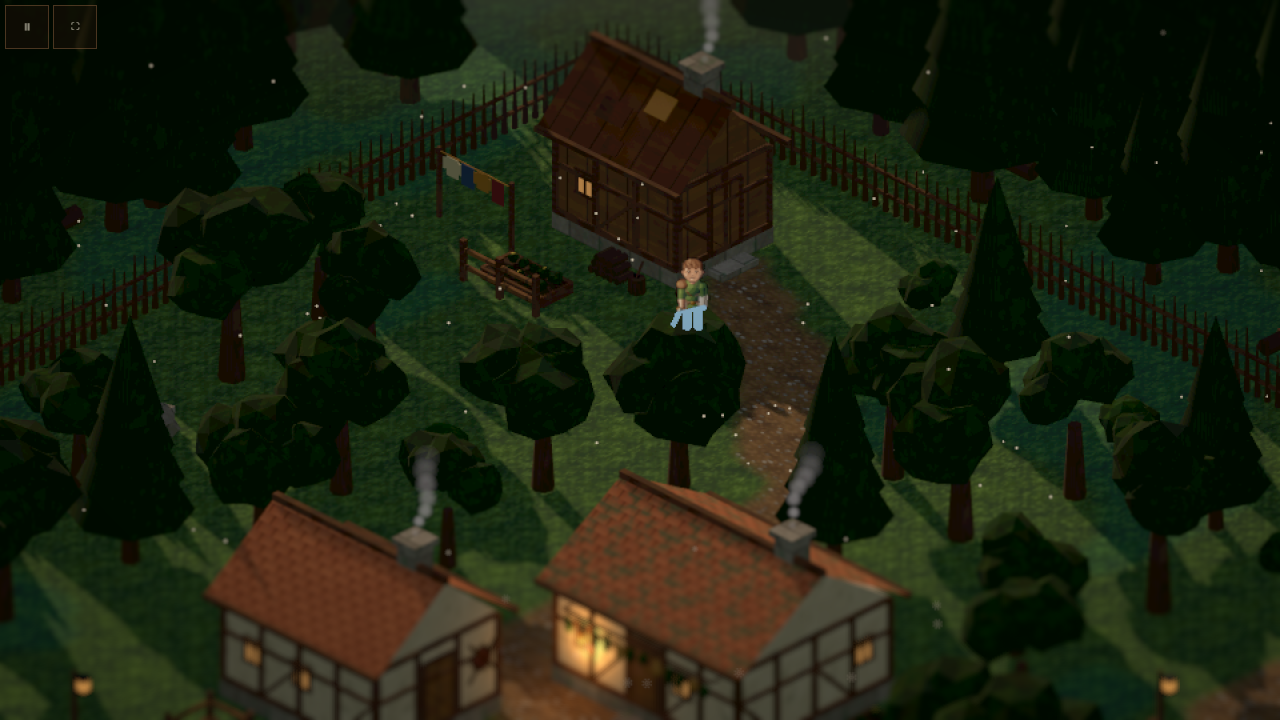
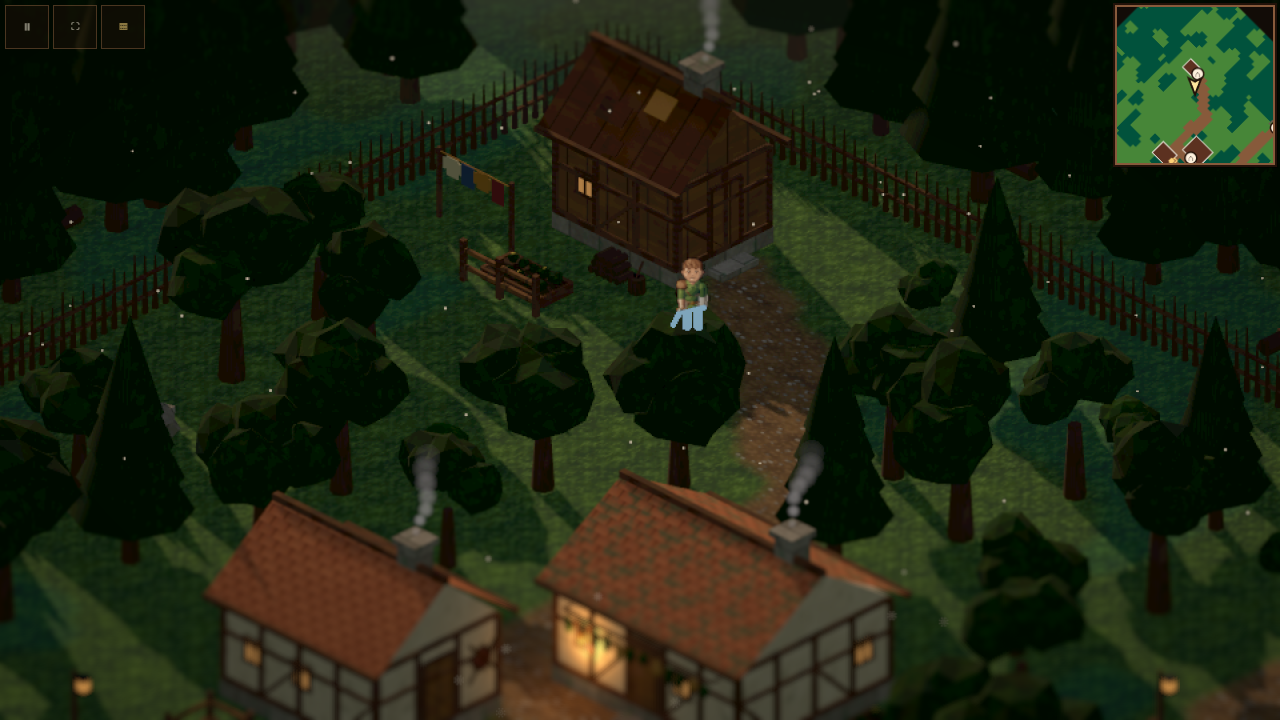
v0.1.2 etapa 2: minimapa girado, boneco de treino como objeto do kit, correção de travadas por luzes, medição de FPS e README

Changed region(s): [[0.8438, 0.0, 1.0, 0.2444]]

diff --git a/src/ui/telas.js b/src/ui/telas.js
@@ -1,7 +1,11 @@
 // Telas fora da batalha (15, pacote v0.1.1): menu de pausa (botão ⏸, Esc/P, Start do gamepad), botão de tela cheia e dica de controles
-// da 1ª vez. DOM dentro de #ui (retângulo do jogo, escala com --k); texto só por ID e por textContent. A tela de início é do 08
+// da 1ª vez; v0.1.2: janela de achado, nome do mapa ao entrar e minimapa (tecla M, botão ▦ no canto, linhas no painel de pausa). DOM dentro de #ui (retângulo do jogo, escala com --k); texto só por ID e por textContent. A tela de início é do 08
 // (plataforma.inicio, #inicio); aqui só se espera ela acabar. API da plataforma (08, principal.js): preferencias.obter/definir/todas,
 // telaCheia.suportada/ativa/alternar/aoMudar, pausa.pausar('ui')/retomar('ui'), movel.ativo. Sem ela (testes), há substitutos locais.
+
+import { criarMinimapa } from './minimapa.js';
+import { fonteDoMapa } from './minimapa_geo.js';
+import { interativosDe } from '../jogo/exploracao/portais.js';
 
 function el(tag, classe, pai, texto) {
   const e = document.createElement(tag);
@@ -13,8 +17,19 @@ function el(tag, classe, pai, texto) {
 const botao = (classe, pai, texto) => { const b = el('button', classe, pai, texto); b.type = 'button'; b.tabIndex = -1; return b; };
 
 function preferenciasNaMemoria() {
-  let p = { volume: 0.8, velocidade_batalha: 1, reduzir_movimento: false, tela_cheia_pedida: false, dica_vista: false };
+  let p = { volume: 0.8, velocidade_batalha: 1, reduzir_movimento: false, tela_cheia_pedida: false, dica_vista: false, minimapa: true, minimapa_contraste: false };
   return { obter: (k) => p[k], definir(k, v) { p = { ...p, [k]: v }; return true; }, todas: () => ({ ...p }) };
+}
+// preferências do minimapa: na plataforma (08) quando ela as conhece; senão guardadas aqui (localStorage próprio, com validação)
+const PADRAO_MINI = { minimapa: true, minimapa_contraste: false }, CHAVE_MINI = 'dunwick.ui_minimapa';
+function preferenciasMinimapa(P) {
+  const conhece = (k) => { try { return typeof P.obter(k) === 'boolean'; } catch { return false; } };
+  let local = { ...PADRAO_MINI };
+  try { const l = JSON.parse(globalThis.localStorage?.getItem(CHAVE_MINI) ?? 'null'); for (const k of Object.keys(PADRAO_MINI)) if (typeof l?.[k] === 'boolean') local[k] = l[k]; } catch { /* padrão */ }
+  return {
+    obter: (k) => (conhece(k) ? P.obter(k) : local[k]),
+    definir(k, v) { if (conhece(k)) return P.definir(k, v); local = { ...local, [k]: !!v }; try { globalThis.localStorage?.setItem(CHAVE_MINI, JSON.stringify(local)); } catch { /* só nesta sessão */ } return true; },
+  };
 }
 const SEM_TELA_CHEIA = { suportada: false, ativa: () => false, alternar: async () => false };
 
@@ -33,6 +48,7 @@ export function criarTelas({ mundo, t, cfg, dados = {}, plataforma = {}, podeCan
   const canto = el('div', 'tela-canto', raiz); canto.hidden = true;
   const bPausa = botao('tela-botao-canto', canto, '⏸'); bPausa.setAttribute('aria-label', t('ui_pausa_abrir'));
   const bCheia = botao('tela-botao-canto tela-cheia-canto', canto, '⛶'); bCheia.setAttribute('aria-label', t('ui_pausa_tela_cheia'));
+  const bMiniCanto = botao('tela-botao-canto tela-mini-canto', canto, '▦'); bMiniCanto.setAttribute('aria-label', t('ui_pausa_minimapa'));
   // ---------- pausa ----------
   const fundo = el('div', 'tela-pausa', raiz); fundo.hidden = true;
   const painel = el('div', 'tela-painel', fundo); painel.setAttribute('role', 'dialog'); painel.setAttribute('aria-label', t('ui_pausa_titulo'));
@@ -44,7 +60,9 @@ export function criarTelas({ mundo, t, cfg, dados = {}, plataforma = {}, podeCan
   const lReduzir = linha('ui_pausa_reduzir'), bReduzir = botao('tela-controle tela-alterna', lReduzir);
   const lVel = linha('ui_pausa_velocidade'), bVel = botao('tela-controle tela-alterna', lVel);
   const lCheia = linha('ui_pausa_tela_cheia'), bCheiaPainel = botao('tela-controle tela-alterna', lCheia);
-  const linhas = [lContinuar, lVolume, lReduzir, lVel, lCheia];
+  const lMini = linha('ui_pausa_minimapa'), bMini = botao('tela-controle tela-alterna', lMini);
+  const lMiniC = linha('ui_pausa_minimapa_contraste'), bMiniC = botao('tela-controle tela-alterna', lMiniC);
+  const linhas = [lContinuar, lVolume, lReduzir, lVel, lCheia, lMini, lMiniC];
   // ---------- janela de achado (baú de tesouro; eventos do 13: bau_aberto {mapa, id, item, quantidade} e bau_vazio {mapa, id}) ----------
   // O item já está na mochila: a janela só informa. Fila se vierem vários; enquanto aberta, plataforma.pausa('achado') para o mundo.
   const fundoAchado = el('div', 'tela-pausa tela-achado', raiz); fundoAchado.hidden = true;
@@ -76,6 +94,20 @@ export function criarTelas({ mundo, t, cfg, dados = {}, plataforma = {}, podeCan
   let banner = pedirBanner(mundo.mapaId ?? null); // pendente desde o começo: aparece quando o jogo começa de fato
   mundo.eventos?.em('mapa_trocado', (ev) => { banner = pedirBanner(ev.mapa); });
 
+  // ---------- minimapa (D-041) ----------
+  const PM = preferenciasMinimapa(P), giro = dados.config?.jogo?.camera?.giro_graus ?? 45, fontes = new Map();
+  // fonte: a dos dados do mapa (fonteDoMapa, com muros e baús); com plataforma.mapaAtivo() (08), o objeto dele + os muros que ele não traz.
+  // Uma por mapa (mesma referência enquanto o mapa não muda: o minimapa redesenha a base só quando ela muda).
+  const fonteMini = () => {
+    if (!mundo.mapa?.dados) return null;
+    const ma = plataforma.mapaAtivo?.() ?? null, chave = ma ?? mundo.mapaId;
+    if (!fontes.has(chave)) { const propria = fonteDoMapa(mundo.mapa.dados, giro, interativosDe); fontes.clear(); fontes.set(chave, ma ? Object.freeze({ ...ma, muros: ma.muros ?? propria.muros, pois: propria.pois.length >= (ma.pois?.length ?? 0) ? propria.pois : ma.pois }) : propria); }
+    return fontes.get(chave);
+  };
+  const minimapa = cfg.minimapa ? criarMinimapa({ mundo, t, cfg, fonte: fonteMini, preferencia: PM.obter, visivel: () => iniciou() && !pausado && !achado && (mundo.jogo?.modo ?? 'mapa') === 'mapa' }) : null;
+  const alternarMini = () => { PM.definir('minimapa', !PM.obter('minimapa')); desenhar(); };
+  const alternarMiniC = () => { PM.definir('minimapa_contraste', !PM.obter('minimapa_contraste')); desenhar(); };
+
   const prefs = () => P.todas();
   function gravar(parcial) { for (const [k, v] of Object.entries(parcial)) P.definir(k, v); desenhar(); aoMudar(prefs()); }
   function desenhar() {
@@ -85,6 +117,9 @@ export function criarTelas({ mundo, t, cfg, dados = {}, plataforma = {}, podeCan
     bReduzir.textContent = t(p.reduzir_movimento ? 'ui_ligado' : 'ui_desligado'); bReduzir.setAttribute('aria-pressed', String(p.reduzir_movimento));
     bVel.textContent = t('ui_pausa_vel_valor', { vel: p.velocidade_batalha });
     bCheiaPainel.textContent = t(tela.ativa() ? 'ui_ligado' : 'ui_desligado'); lCheia.hidden = !cheia;
+    const mini = PM.obter('minimapa'), miniC = PM.obter('minimapa_contraste');
+    bMini.textContent = t(mini ? 'ui_ligado' : 'ui_desligado'); bMini.setAttribute('aria-pressed', String(mini)); bMiniCanto.setAttribute('aria-pressed', String(mini)); bMiniCanto.classList.toggle('ligado', mini);
+    bMiniC.textContent = t(miniC ? 'ui_ligado' : 'ui_desligado'); bMiniC.setAttribute('aria-pressed', String(miniC)); lMini.hidden = lMiniC.hidden = !minimapa; bMiniCanto.hidden = !minimapa;
     fundo.hidden = !pausado;
     linhas.forEach((l, i) => l.classList.toggle('foco', pausado && i === foco));
     for (const e of [raiz, document.getElementById('batalha'), ...document.querySelectorAll('.bat-camada')]) e?.classList.toggle('reduzir', p.reduzir_movimento);
@@ -98,13 +133,14 @@ export function criarTelas({ mundo, t, cfg, dados = {}, plataforma = {}, podeCan
   const alternarVel = () => gravar({ velocidade_batalha: prefs().velocidade_batalha === 1 ? 2 : 1 });
   // dentro do gesto (clique/toque/tecla); guarda o pedido para o 08 repetir na próxima abertura do jogo
   const alternarCheia = () => Promise.resolve(tela.alternar()).then((ativa) => gravar({ tela_cheia_pedida: !!ativa })).finally(desenhar);
-  const ativar = [fecharPausa, () => volume(0.1), alternarReduzir, alternarVel, alternarCheia];
-  const ajustar = [null, (d) => volume(d * 0.1), alternarReduzir, alternarVel, alternarCheia];
+  const ativar = [fecharPausa, () => volume(0.1), alternarReduzir, alternarVel, alternarCheia, alternarMini, alternarMiniC];
+  const ajustar = [null, (d) => volume(d * 0.1), alternarReduzir, alternarVel, alternarCheia, alternarMini, alternarMiniC];
   function mover(d) { const vis = linhas.map((l, i) => (l.hidden ? -1 : i)).filter((i) => i >= 0); foco = vis[(vis.indexOf(foco) + d + vis.length) % vis.length]; desenhar(); }
 
   bPausa.addEventListener('click', abrirPausa); bCheia.addEventListener('click', alternarCheia);
   bContinuar.addEventListener('click', fecharPausa); bMenos.addEventListener('click', () => volume(-0.1)); bMais.addEventListener('click', () => volume(0.1));
   bReduzir.addEventListener('click', alternarReduzir); bVel.addEventListener('click', alternarVel); bCheiaPainel.addEventListener('click', alternarCheia);
+  bMini.addEventListener('click', alternarMini); bMiniC.addEventListener('click', alternarMiniC); bMiniCanto.addEventListener('click', alternarMini);
   linhas.forEach((l, i) => l.addEventListener('pointerenter', () => { if (pausado && foco !== i) { foco = i; desenhar(); } }));
   fundo.addEventListener('pointerdown', (e) => { if (e.target === fundo) fecharPausa(); }); // tocar fora do painel fecha
   fundo.addEventListener('contextmenu', (e) => { e.preventDefault(); fecharPausa(); });
@@ -116,6 +152,7 @@ export function criarTelas({ mundo, t, cfg, dados = {}, plataforma = {}, podeCan
     if (achado) { e.preventDefault(); e.stopImmediatePropagation(); if (!e.repeat && ['Enter', 'NumpadEnter', 'Space', 'Escape', 'KeyE', 'Backspace'].includes(e.code)) fecharAchado(); return; }
     const pausa = e.code === 'Escape' || e.code === 'KeyP';
     if (!pausado) {
+      if (e.code === 'KeyM' && !e.repeat && minimapa && mundo.jogo?.modo !== 'batalha') { e.preventDefault(); alternarMini(); return; }
       if (!pausa || (e.code === 'Escape' && mundo.jogo?.modo === 'batalha' && podeCancelarBatalha())) return;
       e.preventDefault(); e.stopImmediatePropagation(); abrirPausa(); return;
     }
@@ -169,8 +206,9 @@ export function criarTelas({ mundo, t, cfg, dados = {}, plataforma = {}, podeCan
 
   desenhar();
   return {
+    minimapa,
     get pausado() { return pausado || !!achado; }, get achadoAberto() { return !!achado; }, preferencias: prefs,
-    atualizar(dt) { if (canto.hidden === iniciou()) desenhar(); lerGamepad(); cuidarDica(dt); cuidarBanner(dt); },
+    atualizar(dt) { if (canto.hidden === iniciou()) desenhar(); lerGamepad(); cuidarDica(dt); cuidarBanner(dt); minimapa?.atualizar(); },
     abrirPausa, fecharPausa, gravar,
   };
 }

diff --git a/src/ui/minimapa.js b/src/ui/minimapa.js
@@ -1,5 +1,5 @@
-// Minimapa (15, D-041): gira com a tela (cima do minimapa = cima da tela, giro da câmera isométrica). Lê plataforma.mapaAtivo()
-// (objeto estável por mapa) e mundo.heroi (x, z, face). A BASE (chão, edifícios, portas, passagens) é desenhada UMA vez por mapa
+// Minimapa (15, D-041, etapa 2 da v0.1.2): gira com a tela (cima do minimapa = cima da tela, giro da câmera isométrica). Lê o mapa
+// ativo por `fonte()` (objeto estável por mapa: plataforma.mapaAtivo() do 08 ou fonteDoMapa) e mundo.heroi (x, z, face). A BASE (chão, edifícios, portas, passagens) é desenhada UMA vez por mapa
 // num canvas fora da tela; por quadro só se gira/move a base e se desenham a seta do herói e os pontos de interesse (de pé, legíveis).
 // Exterior: centrado no herói. Interior: o cômodo inteiro cabe e a seta anda. Nada só por cor: formas, ícones, legenda e texto alternativo.
 import { mundoParaMini, miniParaMundo, anguloSeta, maisProximo } from './minimapa_geo.js';
@@ -7,8 +7,9 @@ import { mundoParaMini, miniParaMundo, anguloSeta, maisProximo } from './minimap
 // chão por material (paleta neutra v0.2); no alto contraste o chão vira dois tons e os elementos ganham contorno forte
 const CHAO = { grama: '#478638', terra: '#875a3b', calcada: '#a99d90', musgo: '#01523c', agua: '#3b6e8f' };
 const COR = { fundo: '#120c07', casa: '#5c3120', casaBorda: '#ece7dd', porta: '#fcd176', passagem: '#fcd176', fechada: '#685a50', poi: '#fdf0dc', poiBorda: '#211209', heroi: '#ffe79d', heroiBorda: '#211209' };
-const CONTRASTE = { chao: '#3a332c', chaoBorda: '#000000', casa: '#000000', casaBorda: '#ffffff', porta: '#ffe79d', passagem: '#ffffff', fechada: '#9a9a9a' };
-const ICONE_POI = { poco: '◎', portico: '⌂', torre_sino: '♜', loja: '$', forja: '⚒', taverna: '♨', praca: '✦' };
+const MURO = { muralha_baixa: '#c9bcae', estacada: '#ae8865', muro_fuligem: '#4a3a30', cerca: '#d3b89e' };
+const CONTRASTE = { muro: '#ffffff', chao: '#3a332c', chaoBorda: '#000000', casa: '#000000', casaBorda: '#ffffff', porta: '#ffe79d', passagem: '#ffffff', fechada: '#9a9a9a' };
+const ICONE_POI = { poco: '◎', portico: '⌂', torre_sino: '♜', loja: '$', forja: '⚒', taverna: '♨', praca: '✦', edificio: '⌂', quadro_avisos: '▤', patio: '✦', saida: '↥', boneco_treino: '♟', bau_tesouro: '▣', bau: '▣' };
 
 function el(tag, classe, pai, texto) { const e = document.createElement(tag); if (classe) e.className = classe; if (texto !== undefined) e.textContent = texto; if (pai) pai.appendChild(e); return e; }
 
@@ -17,6 +18,10 @@ export function desenharBase(ctx, mapa, B, contraste) {
   const [L, A] = mapa.tamanho;
   ctx.fillStyle = COR.fundo; ctx.fillRect(0, 0, L * B, A * B);
   mapa.planta.forEach((linha, z) => { for (let x = 0; x < linha.length; x++) { const mat = mapa.legenda[linha[x]]; if (!mat) continue; ctx.fillStyle = contraste ? CONTRASTE.chao : (CHAO[mat] ?? CHAO.terra); ctx.fillRect(x * B, z * B, B, B); } });
+  for (const m of mapa.muros ?? []) { // muralha, estacada, cerca: linha (a cerca, fina)
+    ctx.lineWidth = Math.max(1, B * (m.tipo === 'cerca' ? 0.25 : 0.5)); ctx.strokeStyle = contraste ? CONTRASTE.muro : MURO[m.tipo];
+    ctx.beginPath(); ctx.moveTo(m.x0 * B, m.z0 * B); ctx.lineTo(m.x1 * B, m.z1 * B); ctx.stroke();
+  }
   for (const e of mapa.edificios) { // bloco (x, z = centro) com contorno; porta como marca dourada no lado dela
     ctx.save(); ctx.translate(e.x * B, e.z * B); ctx.rotate(((e.rot ?? 0) * Math.PI) / 180);
     ctx.fillStyle = contraste ? CONTRASTE.casa : COR.casa; ctx.fillRect((-e.w / 2) * B, (-e.d / 2) * B, e.w * B, e.d * B);
@@ -31,7 +36,7 @@ export function desenharBase(ctx, mapa, B, contraste) {
   }
 }
 
-export function criarMinimapa({ mundo, t, cfg, plataforma = {}, preferencia, visivel }) {
+export function criarMinimapa({ mundo, t, cfg, fonte, preferencia, visivel }) {
   const C = cfg.minimapa, pai = document.getElementById('ui') ?? document.body;
   const raiz = el('div', 'minimapa', pai); raiz.hidden = true;
   const tela = el('canvas', 'minimapa-tela', raiz); tela.setAttribute('role', 'img');
@@ -44,7 +49,6 @@ export function criarMinimapa({ mundo, t, cfg, plataforma = {}, preferencia, vis
   let mapaBase = null, contrasteBase = null, chave = '', param = null, dicaAte = 0, sobre = null;
   const medidas = { quadros: 0, ms: 0, bases: 0 }; // custo medido (o teste lê)
 
-  const fonte = () => plataforma.mapaAtivo?.() ?? null;
   function montarBase(m, contraste) {
     const t0 = performance.now(); base.width = m.tamanho[0] * C.px_base; base.height = m.tamanho[1] * C.px_base;
     desenharBase(bctx, m, C.px_base, contraste); mapaBase = m; contrasteBase = contraste; medidas.bases++; medidas.msBase = performance.now() - t0;
@@ -53,7 +57,7 @@ export function criarMinimapa({ mundo, t, cfg, plataforma = {}, preferencia, vis
 
   function desenhar(m, contraste) {
     const h = mundo.heroi, S = raiz.clientWidth, dpr = globalThis.devicePixelRatio || 1, [L, A] = m.tamanho;
-    const escala = m.interior ? Math.min(C.px_por_tile_interior_max, (S * 0.86) / Math.max(L, A)) : C.px_por_tile_exterior;
+    const escala = m.interior ? Math.min(C.px_por_tile_interior_max, (S * 0.86) / Math.max(L, A)) : (C.px_por_tile_exterior * S) / 160; // exterior: 4 px/tile num minimapa de 160 px
     param = { cx: m.interior ? L / 2 : h.x, cz: m.interior ? A / 2 : h.z, giroGraus: m.giro_graus, escala, meio: S / 2 };
     const k = [m.id, contraste, S, dpr, h.x.toFixed(2), h.z.toFixed(2), h.face.toFixed(2), sobre?.id ?? ''].join('|');
     if (k === chave) return; chave = k;
@@ -72,6 +76,7 @@ export function criarMinimapa({ mundo, t, cfg, plataforma = {}, preferencia, vis
     }
     // seta do herói: sempre visível, apontando para onde ele olha (já girada junto com a tela)
     const s = mundoParaMini(h.x, h.z, param), ang = anguloSeta(h.face, param.giroGraus), tam = Math.max(6, S / 16);
+    medidas.angSeta = Math.atan2(Math.sin(ang), Math.cos(ang)); // radianos na tela do minimapa (−π/2 = para cima); o teste lê
     ctx.save(); ctx.translate(Math.min(S - 4, Math.max(4, s.x)), Math.min(S - 4, Math.max(4, s.y))); ctx.rotate(ang);
     ctx.beginPath(); ctx.moveTo(tam, 0); ctx.lineTo(-tam * 0.7, tam * 0.65); ctx.lineTo(-tam * 0.35, 0); ctx.lineTo(-tam * 0.7, -tam * 0.65); ctx.closePath();
     ctx.fillStyle = COR.heroi; ctx.fill(); ctx.lineWidth = 2; ctx.strokeStyle = COR.heroiBorda; ctx.stroke(); ctx.restore();
@@ -90,7 +95,7 @@ export function criarMinimapa({ mundo, t, cfg, plataforma = {}, preferencia, vis
   tela.addEventListener('pointerleave', (e) => { if (e.pointerType !== 'touch') { sobre = null; dica.hidden = true; } });
 
   return {
-    medidas, elemento: raiz,
+    medidas, elemento: raiz, fonte,
     atualizar() {
       const m = fonte(), mostrar = !!m && preferencia('minimapa') && visivel();
       if (raiz.hidden === mostrar) raiz.hidden = !mostrar;

diff --git a/src/plataforma/principal.js b/src/plataforma/principal.js
@@ -53,7 +53,7 @@ async function iniciar() {
   const cenaBat = temBatalha ? criarCenaBatalha({ dados, recursos, perfil: perfis[iPerfil], opcoes: { texelsPorTile: Number(P.get('texel') ?? 64) } }) : null;
   const apr = temBatalha ? criarApresentacao({ mundo, dados, cenaBatalha: cenaBat, ren, container: document.getElementById('ui'), opcoes: { aoTrocarMapa: () => { cena = cenas.get(idMapa()); }, reduzirMovimento: () => P.get('reduzir') === '1' || preferencias.obter('reduzir_movimento') || matchMedia('(prefers-reduced-motion: reduce)').matches } }) : null;
   const aplicarPerfil = () => { ren.definirPerfil(perfis[iPerfil]); for (const c of cenas.values()) c.aplicarPerfil(perfis[iPerfil]); cenaBat?.aplicarPerfil(perfis[iPerfil]); };
-  aplicarPerfil(); marcas.cena = performance.now();
+  aplicarPerfil(); for (const c of cenas.values()) c.atualizar(1, 0, 0), ren.compilar(c); marcas.cena = performance.now(); // aquece: posiciona luzes e compila os shaders de cada mapa antes de jogar
 
   // ---------- áudio desbloqueado por clique/tecla ----------
   const audio = criarAudio(recursos.sfxPing);
@@ -61,7 +61,19 @@ async function iniciar() {
   // API de plataforma para a UI (15): preferências persistentes, tela cheia, pausa por motivos, volume e a tela de início
   const telaCheia = criarTelaCheia(), pausa = criarPausa({ audio });
   audio.definirVolume(preferencias.obter('volume')); preferencias.aoMudar((k, v) => { if (k === 'volume') audio.definirVolume(v); });
-  const plataforma = { preferencias, telaCheia, pausa, audio, movel, inicio: null };
+  // leitura do mapa ativo para o minimapa (15): um objeto congelado e ESTÁVEL por mapa (mesma referência enquanto o mapa não muda)
+  const vistaMapas = new Map();
+  const mapaAtivo = () => {
+    const id = idMapa(); if (vistaMapas.has(id)) return vistaMapas.get(id);
+    const m = dados.mapas[id], v = Object.freeze({
+      id, tipo_mapa: m.tipo_mapa, interior: m.tipo_mapa === 'interior', nome_txt: m.nome_txt, tamanho: m.tamanho, legenda: m.legenda, planta: m.planta, giro_graus: cfg.camera.giro_graus,
+      edificios: (m.edificios ?? []).map((e) => ({ id: e.id, x: e.x, z: e.z, w: e.w, d: e.d, rot: e.rot ?? 0, porta: e.porta ?? null, interior: e.interior })),
+      portais: (m.portais ?? []).map((p) => ({ id: p.id, x: p.x, z: p.z, w: p.w, d: p.d, interditado: !p.ativo, nome_txt: p.nome_txt ?? null, destino: p.destino ?? null })),
+      pois: (m.pois ?? []).map((p) => ({ id: p.id, tipo: p.tipo, x: p.x, z: p.z, nome_txt: p.nome_txt })),
+    });
+    vistaMapas.set(id, v); return v;
+  };
+  const plataforma = { preferencias, telaCheia, pausa, audio, movel, inicio: null, mapaAtivo };
   // tela de início: em produção sempre; em desenvolvimento só com ?inicio=1 (os testes automáticos já começam jogando)
   if (!__DEV__ || P.get('inicio') === '1') {
     pausa.pausar('inicio'); aviso.remove();

diff --git a/src/motor/kit_vila.js b/src/motor/kit_vila.js
@@ -250,6 +250,16 @@ function rackArmas(col, o) {
   a.g('madeira', new THREE.CylinderGeometry(0.28, 0.28, 0.05, 12), 0.95, 0.5, 0.2, Math.PI / 2, 0, 0); a.g('metal', new THREE.SphereGeometry(0.06, 6, 5), 0.95, 0.5, 0.25);
 }
 
+// boneco de treino do pátio do Torvan (v0.1.2b): poste fincado, braços de travessa, corpo de saco de palha amarrado, cabeça com faixa vinho.
+// Provisório do 14 para tirar o boneco do M1 (entidade = alvo de ataque, o herói parava longe); o 07 refina o visual. Colisão: círculo do kit.
+function bonecoTreino(col, o) {
+  const a = ajudantes(col, o);
+  a.g('madeira', new THREE.CylinderGeometry(0.07, 0.09, 1.9, 7), 0, 0.95, 0); a.b('madeira', 0, 0.06, 0, 0.5, 0.12, 0.5); // poste e base
+  a.v('madeira', [-0.55, 1.3, 0], [0.55, 1.3, 0], 0.07); // braços
+  a.g('palha', new THREE.CylinderGeometry(0.24, 0.2, 0.75, 9), 0, 1.15, 0); for (const y of [0.92, 1.42]) a.g('linho', new THREE.CylinderGeometry(0.245, 0.245, 0.04, 9), 0, y, 0); // corpo e amarras
+  a.g('palha', new THREE.SphereGeometry(0.19, 9, 7), 0, 1.72, 0); a.g('tecido_vinho', new THREE.CylinderGeometry(0.2, 0.2, 0.06, 9), 0, 1.76, 0); // cabeça e faixa
+}
+
 function forjaBrasa(col, o, kit, saida) { // forno de pedra aberto na frente, com brasa viva, chaminé e fumaça; emite luz dinâmica (tipo `forja`)
   const a = ajudantes(col, o);
   a.b('pedra', 0, 0.45, 0, 1.4, 0.9, 1.0); a.b('pedra', 0, 0.93, 0, 1.5, 0.08, 1.1);
@@ -285,4 +295,4 @@ function balde(col, o) {
   a.g('agua', new THREE.CircleGeometry(0.17, 9).rotateX(-Math.PI / 2), 0, 0.3, 0, 0, 0, 0, { uv: false }); a.g('metal', new THREE.TorusGeometry(0.19, 0.012, 4, 10, Math.PI), 0, 0.3, 0, 0, 0, 0);
 }
 
-export const PECAS_VILA = { lenha, varal, balde, bau_tesouro: (col, o) => corpoBau(col, o), portico, quadro_avisos: quadroAvisos, arvore_queimada: arvoreQueimada, muro_fuligem: muroFuligem, muralha_baixa: muralhaBaixa, estacada, tronco_caido: troncoCaido, moita, pedra_enegrecida: pedraEnegrecida, canteiro, rack_armas: rackArmas, forja_brasa: forjaBrasa, bigorna };
+export const PECAS_VILA = { boneco_treino: bonecoTreino, lenha, varal, balde, bau_tesouro: (col, o) => corpoBau(col, o), portico, quadro_avisos: quadroAvisos, arvore_queimada: arvoreQueimada, muro_fuligem: muroFuligem, muralha_baixa: muralhaBaixa, estacada, tronco_caido: troncoCaido, moita, pedra_enegrecida: pedraEnegrecida, canteiro, rack_armas: rackArmas, forja_brasa: forjaBrasa, bigorna };

diff --git a/src/plataforma/estilo.css b/src/plataforma/estilo.css
@@ -194,9 +194,11 @@ html.movel #aviso { bottom: auto; top: calc(env(safe-area-inset-top) + 6px); fon
 .bat-rotulo-cheia[hidden] { display: none; }
 
 /* ---------- minimapa (15, D-041): canto superior direito do retângulo do jogo; ~160 px no PC, ≥ 96 px no celular ---------- */
-.minimapa { position: absolute; right: calc(8 * var(--u)); top: calc(8 * var(--u)); width: clamp(96px, calc(160 * var(--u)), 160px); pointer-events: none; font-family: ui-monospace, Consolas, "Courier New", monospace; color: var(--ui-4); }
+.minimapa { position: absolute; right: calc(8 * var(--u)); top: calc(8 * var(--u)); width: clamp(96px, calc(240 * var(--u)), 180px); pointer-events: none; font-family: ui-monospace, Consolas, "Courier New", monospace; color: var(--ui-4); }
 .minimapa[hidden] { display: none; }
-.minimapa-tela { display: block; width: 100%; aspect-ratio: 1; box-sizing: border-box; border: max(2px, calc(3 * var(--u))) solid var(--madeira-3); outline: 2px solid var(--ui-1); box-shadow: inset 0 0 0 2px var(--madeira-2), 3px 3px 0 rgba(0, 0, 0, 0.5); background: #120c07; pointer-events: auto; touch-action: none; cursor: help; }
+.tela-mini-canto.ligado { color: var(--brilho-1); }
+/* `.minimapa canvas.minimapa-tela`: vence `canvas` e `html.movel canvas` (regras do canvas do jogo, do 08) */
+.minimapa canvas.minimapa-tela { position: static; height: auto; image-rendering: auto; display: block; width: 100%; aspect-ratio: 1; box-sizing: border-box; border: max(2px, calc(3 * var(--u))) solid var(--madeira-3); outline: 2px solid var(--ui-1); box-shadow: inset 0 0 0 2px var(--madeira-2), 3px 3px 0 rgba(0, 0, 0, 0.5); background: #120c07; pointer-events: auto; touch-action: none; cursor: help; }
 .minimapa-dica { position: absolute; right: 0; top: calc(100% + 4px); max-width: 220%; padding: 2px 8px; background: rgba(33, 18, 9, 0.92); border: 2px solid var(--madeira-3); font-size: max(12px, calc(13 * var(--u))); white-space: nowrap; }
 .minimapa-dica[hidden] { display: none; }
 .minimapa-legenda { display: none; margin: 4px 0 0; padding: 4px 6px; list-style: none; background: rgba(0, 0, 0, 0.85); border: 1px solid #fff; font-size: max(11px, calc(12 * var(--u))); line-height: 1.3; }

diff --git a/src/ui/minimapa_geo.js b/src/ui/minimapa_geo.js
@@ -26,3 +26,18 @@ export function maisProximo(pontos, x, z, raio) {
   for (const p of pontos) { const d = Math.hypot(p.x - x, p.z - z); if (d <= dMin) { dMin = d; melhor = p; } }
   return melhor;
 }
+
+// tipos de objeto que viram linha de muro/cerca no minimapa (segmentos x0,z0 → x1,z1 no mapa)
+const MUROS = ['muralha_baixa', 'estacada', 'muro_fuligem', 'cerca'];
+/** Pura: o que o minimapa precisa de um mapa (dados de data/maps), montado uma vez por mapa. `interativos(md)` = objetos com que se
+ * interage (boneco, baú) + pois, do 13. Quando a plataforma tiver `mapaAtivo()` (08), ele pode substituir isto. */
+export function fonteDoMapa(md, giroGraus, interativos = (m) => m.pois ?? []) {
+  const muros = (md.objetos ?? []).filter((o) => MUROS.includes(o.tipo) && Number.isFinite(o.x0)).map((o) => ({ tipo: o.tipo, x0: o.x0, z0: o.z0, x1: o.x1, z1: o.z1 }));
+  return Object.freeze({
+    id: md.id, nome_txt: md.nome_txt, tamanho: md.tamanho, planta: md.planta, legenda: md.legenda, interior: md.tipo_mapa === 'interior', giro_graus: giroGraus,
+    edificios: (md.edificios ?? []).map((e) => ({ x: e.x, z: e.z, w: e.w, d: e.d, rot: e.rot ?? 0, porta: e.porta ?? null })),
+    portais: (md.portais ?? []).map((p) => ({ id: p.id, x: p.x, z: p.z, w: p.w, d: p.d, interditado: p.ativo === false, nome_txt: p.nome_txt ?? null })),
+    pois: interativos(md).filter((p) => p.nome_txt && Number.isFinite(p.x)).map((p) => ({ id: p.id, tipo: p.tipo, x: p.x, z: p.z, nome_txt: p.nome_txt })),
+    muros,
+  });
+}

diff --git a/src/plataforma/preferencias.js b/src/plataforma/preferencias.js
@@ -1,11 +1,12 @@
 // Preferências do jogador (localStorage, com versão e validação; qualquer falha de armazenamento — modo privado, cota, bloqueio — cai no padrão).
 // API para a UI: obter(chave) · definir(chave, valor) → bool · todas() · aoMudar(fn) → cancelar() · PADRAO.
 const CHAVE = 'dunwick.preferencias', VERSAO = 1;
-export const PADRAO = Object.freeze({ volume: 0.8, velocidade_batalha: 1, reduzir_movimento: false, tela_cheia_pedida: false, dica_vista: false });
+export const PADRAO = Object.freeze({ volume: 0.8, velocidade_batalha: 1, reduzir_movimento: false, tela_cheia_pedida: false, dica_vista: false, minimapa: true, minimapa_contraste: false });
 const VALIDAR = {
   volume: (v) => typeof v === 'number' && v >= 0 && v <= 1,
   velocidade_batalha: (v) => v === 1 || v === 2,
   reduzir_movimento: (v) => typeof v === 'boolean', tela_cheia_pedida: (v) => typeof v === 'boolean', dica_vista: (v) => typeof v === 'boolean',
+  minimapa: (v) => typeof v === 'boolean', minimapa_contraste: (v) => typeof v === 'boolean',
 };
 
 export function criarPreferencias(armazenamento = (() => { try { return window.localStorage; } catch { return null; } })()) {

diff --git a/src/motor/cena.js b/src/motor/cena.js
@@ -99,7 +99,7 @@ export function criarCena({ dados, mundo, recursos, perfil, opcoes = {} }) {
     const ordem = reuniao.map((p, i) => [Math.hypot(p.x - cx, p.z - cz), i]).sort((a, b) => a[0] - b[0]);
     luzesPontuais.forEach((l, i) => {
       const src = i < n && ordem[i] && ordem[i][0] < 26 ? lanternas[ordem[i][1]] : null, f = src && FONTES[src.tipo], ok = !!src && (f ? f.sempre || acesa : acesa);
-      l.visible = ok; if (!ok) return; l.position.copy(reuniao[ordem[i][1]]);
+      l.visible = i < n; if (!ok) { l.intensity = 0; return; } // visível = constante por perfil: ligar/desligar luz muda o nº de luzes do shader e recompila (travada de ~400 ms) l.position.copy(reuniao[ordem[i][1]]);
       if (f) { l.color.set(f.cor); l.distance = f.alcance_tiles; l.intensity = f.intensidade * (1 + (f.oscila ?? 0) * (0.6 * Math.sin(tempoS * 9.1 + ordem[i][1] * 2.3) + 0.4 * Math.sin(tempoS * 17.3 + ordem[i][1]))); }
       else { l.color.set(ll.cor); l.distance = ll.alcance_tiles; l.intensity = ll.intensidade * ec.luzArtificial * (1 + 0.06 * Math.sin(tempoS * 9 + ordem[i][1] * 2.3)); }
     });

diff --git a/src/motor/renderizador.js b/src/motor/renderizador.js
@@ -85,6 +85,7 @@ export function criarRenderizador(canvas, cfg, perfil, modoInicial) {
     /** Resolução de ARTE por cena (batalha 640×360, mapa 960×540): refaz os alvos de desenho; a escala continua inteira. */
     definirArte(w, h) { if (w === AW && h === AH) return; AW = w; AH = h; ajustar(...ultimaJanela); },
     get arte() { return [AW, AH]; }, arteBase,
+    /** Pré-compila os shaders da cena (evita a travada do primeiro quadro). */ compilar: (c) => renderer.compile(c.cena, c.camera),
     estatisticas: () => ({ chamadas: renderer.info.render.calls, triangulos: renderer.info.render.triangles, texturas: renderer.info.memory.textures, geometrias: renderer.info.memory.geometries }),
     infoGpu() { const gl = renderer.getContext(), e = gl.getExtension('WEBGL_debug_renderer_info'); return e ? gl.getParameter(e.UNMASKED_RENDERER_WEBGL) : 'desconhecida'; },
   };

diff --git a/src/ui/batalha_ui.js b/src/ui/batalha_ui.js
@@ -509,7 +509,7 @@ export function criarBatalhaUi({ mundo, dados, t, debug = false, plataforma = {}
   }
 
   return {
-    ligar, atualizar, encerrar,
+    ligar, atualizar, encerrar, telas, // telas: pausa, achado, banner e minimapa (os testes de navegador leem telas.minimapa.medidas)
     /** Controlador ligado agora (ou null): a plataforma liga a UI a toda batalha, não só à de depuração. */
     get controlador() { return ctrl; },
     get modo() { return modo; }, get ocupado() { return rep.ocupado; },

diff --git a/docs/niveis/props_vila_v012.md b/docs/niveis/props_vila_v012.md
@@ -39,9 +39,9 @@ Os tamanhos são os do esboço aprovado pelo usuário (D-041). Se o 07 preferir 
 | `varal_edric` | `varal` | vão 2,4; postes r 0,1 | −5,1, −0,4 | quintal do Edric (1 tile livre dos dois lados) |
 | `canteiro_edric` | `canteiro` | 2 × 1 | −2,6, 0,4 | hortinha do Edric |
 | `cerca_edric` | `cerca` | linha de (−3,8; 1,3) a (−1,4; 1,3) | — | cerca baixa da horta |
-| `boneco_treino` | POI `boneco_treino` + sprite `enemy_boneco_alvo` | pushbox do boneco do M1 | 11,5, 24 | pátio do Torvan, o boneco mais a oeste (oposto ao poço); POI com `encontro: enc_boneco_treino` no mesmo ponto; `enemy_boneco_golpe` saiu. Quando o kit tiver a pegada `boneco_treino`, o gerador troca pelo objeto `boneco_treino` ⏳ |
+| `boneco_treino` | `boneco_treino` (objeto do kit + POI de mesmo id) | círculo r 0,5 | 11,5, 24 | pátio do Torvan, o boneco mais a oeste (oposto ao poço); POI com `encontro: enc_boneco_treino`. Não é mais entidade: o cursor não o toma por alvo de ataque e o clique leva o herói até ~1,3 tile (teclado: encosta a 0,85). Visual 3D provisório do 14 em `kit_vila.js` (07 refina). `enemy_boneco_alvo`/`_golpe` saíram da vila |
 
-⏳ = ainda fora do kit; o gerador troca sozinho quando a pegada existir. Caminho de terra: porta do Edric (0; −3,5) → (9; 3) → (9; 13,8) → trilha da porta da Maren. Quintal do Edric sem árvores.
+Caminho de terra: porta do Edric (0; −3,5) → (9; 3) → (9; 13,8) → trilha da porta da Maren. Quintal do Edric sem árvores.
 
 ## Perímetro e mata (pedido de 29/10; tipos do 07 já no kit)
 
